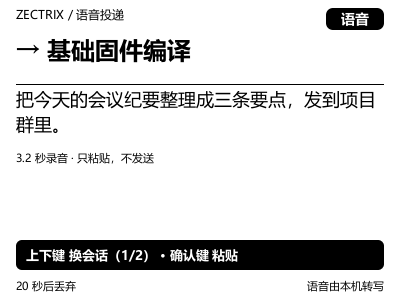
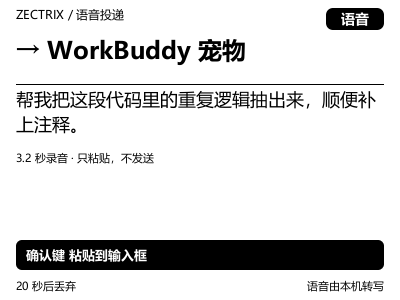
修：语音确认页总能指出要投给哪个会话
实际录音时撞上了：任务刚「完成」、设备还在 5 分钟宽限期内，此时 running
为空，确认页只能写「→ 当前窗口」，屏幕上没有会话名，人会以为投错了。

- 没有工作/等待中的会话时，退到最近未被判陈旧（15 分钟内）的会话，最多 3 个；
  历史记录仍然不会混进来。
- voice preview 默认按日常形态渲染（单会话），--two 才出多会话切换。
- README 配图换成真实渲染的两张：单会话、多会话；正文明确「没有可选会话时
  显示 → 当前窗口」。
- USAGE 补「可选会话怎么来的」。

diff --git a/src/main.rs b/src/main.rs
@@ -880,21 +880,22 @@ fn cmd_voice(args: &Args) -> Result<()> {
             println!("识别结果（{:.2} 秒）：{text}", t.elapsed().as_secs_f32());
         }
         // 本地渲染语音确认页，不连设备：调版式和做文档配图都用它。
+        // 默认按日常形态渲染（一个会话），`--two` 才出多会话切换的样子。
         "preview" => {
             let text = args
                 .get("text")
                 .unwrap_or("把今天的会议纪要整理成三条要点，发到项目群里。");
-            let title = args.get("session").unwrap_or("基础固件编译");
-            let targets = vec![
-                voice::Target {
-                    session: "demo-a".into(),
-                    title: title.to_string(),
-                },
-                voice::Target {
+            let title = args.get("session").unwrap_or("WorkBuddy 宠物");
+            let mut targets = vec![voice::Target {
+                session: "demo-a".into(),
+                title: title.to_string(),
+            }];
+            if args.has("two") {
+                targets.push(voice::Target {
                     session: "demo-b".into(),
                     title: "写周报".into(),
-                },
-            ];
+                });
+            }
             let d = voice::Draft::new(text.to_string(), 3.2, targets, now());
             let scene = layout::voice(&d, now());
             let fonts = Fonts::load()?;
@@ -1232,21 +1233,34 @@ async fn push_scene(
 
 /// 可以投递的会话：正在跑、且有真实会话 id 的任务（去重后保持顺序）。
 ///
-/// 只用 `running`：已完成/已停止的会话不该出现在「发给谁」里——语音是接着
-/// 手上的活往下说的，不是给历史记录补话。
+/// 优先 `running`（工作 / 等待确认）。但要留一个退路：**一轮刚答完**时用户
+/// 常常立刻补一句，此刻任务已经是「完成」，`running` 为空，确认页就只能写
+/// 「→ 当前窗口」——屏幕上看不到会话名，人会以为投错了。所以没有活跃任务时
+/// 退到最近还有效（未陈旧）的会话，最多 3 个。历史记录仍然不会混进来。
 fn voice_targets(model: &Model, at: i64) -> Vec<voice::Target> {
     let mut out: Vec<voice::Target> = Vec::new();
-    for t in model.running(at) {
+    let mut push = |t: &Task| {
         if t.source != "workbuddy" || t.event.task_id.is_empty() {
-            continue;
+            return;
         }
         if out.iter().any(|x| x.session == t.event.task_id) {
-            continue;
+            return;
         }
         out.push(voice::Target {
             session: t.event.task_id.clone(),
             title: t.event.title.clone(),
         });
+    };
+    let running = model.running(at);
+    if running.is_empty() {
+        // `live()` 已按最近活动倒序，取前 3 条足够覆盖「同时开着几个会话」。
+        for t in model.live(at).iter().filter(|t| !t.stale).take(3) {
+            push(t);
+        }
+    } else {
+        for t in &running {
+            push(t);
+        }
     }
     out
 }
@@ -2636,6 +2650,22 @@ mod tests {
         m.settings.follow_enabled = true;
         m.apply(event(seq, status), "workbuddy", at).unwrap();
         m
+    }
+
+    /// 一轮刚答完时用户常马上补一句：此刻没有「正在跑」的会话，也必须能
+    /// 指出投给谁，不能只剩一句「当前窗口」让人猜。
+    #[test]
+    fn voice_targets_fall_back_to_the_session_that_just_finished() {
+        let m = model_with(1, Status::Done, 1_000);
+        let targets = voice_targets(&m, 1_010);
+        assert_eq!(targets.len(), 1, "刚完成的会话要能作为投递目标");
+        assert_eq!(targets[0].session, "t1");
+        assert_eq!(targets[0].title, "真实任务");
+
+        // 超过 stale_minutes 的会话不再列：语音是接着手上的活说的，
+        // 不是给几天前的记录补话。
+        let stale_at = 1_000 + m.settings.stale_minutes as i64 * 60 + 5;
+        assert!(voice_targets(&m, stale_at).is_empty());
     }
 
     #[test]

diff --git a/USAGE.md b/USAGE.md
@@ -189,10 +189,14 @@ cd "$env:LOCALAPPDATA\zectrix-workbuddy-pet\bin"
 设备显示「正在识别…」→ 本机转写
    ↓
 设备显示：识别文本 + 「→ 会话标题」
-   短按上/下 = 换投递目标（只列正在跑的会话）
    短按确认 = 粘贴到该会话输入框（不回车）
+   多个会话时短按上/下 = 换投递目标
    20 秒无操作 = 丢弃
 ```
+
+- **可选会话怎么来的**：优先「正在工作 / 等你确认」的会话；一个都没有（常见于上一轮
+  刚答完、设备还在 5 分钟宽限期）就退到最近 15 分钟内还有效的会话，最多 3 个。
+  实在没有才显示「→ 当前窗口」，直接贴到当前输入框。
 
 - **为什么必须在本机转**：设备只提供 16 kHz 单声道 PCM，SDK 没有语音识别，也没有
   「发语音消息」的接口；WorkBuddy 的输入框只接受文字，它自带的语音按钮是渲染进程
